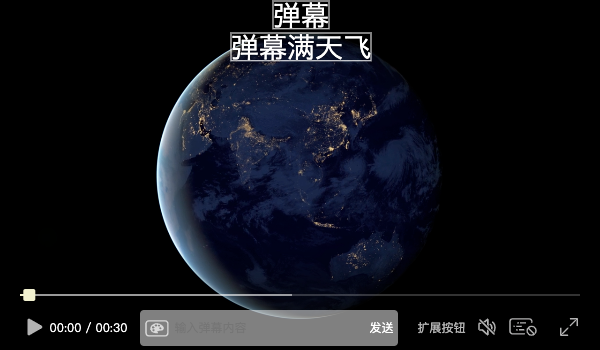
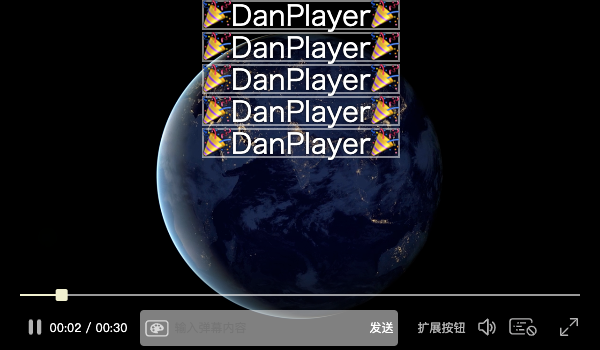
20190913

diff --git a/src/player/player.ts b/src/player/player.ts
@@ -102,7 +102,7 @@ interface PlayerOptions {
   iconSrc: string
 
   // 扩展按钮
-  extraButtons: Element[]
+  extraButtons: { [name: string]: () => void }
 
   // 弹幕层的配置
   danmaku: DanmakuLayerOptions
@@ -114,6 +114,8 @@ interface PlayerOptions {
   unique: boolean
 
   color: string
+
+  beforeSendDanmaku?: (danmaku: Danmaku) => Promise<boolean>
 }
 
 export interface PlayerPublicOptions {
@@ -143,7 +145,7 @@ export interface PlayerPublicOptions {
   iconSrc: string
 
   // 扩展按钮
-  extraButtons: Element[]
+  extraButtons: { [name: string]: () => void }
 
   // 弹幕层的配置
   danmaku: Partial<DanmakuLayerOptions>
@@ -155,6 +157,8 @@ export interface PlayerPublicOptions {
   unique: boolean
 
   color: string
+
+  beforeSendDanmaku?: (danmaku: Danmaku) => Promise<boolean>
 }
 
 enum VideoType {
@@ -171,14 +175,18 @@ function MakeDefaultOptions ({
   width = 600,
   height = 350,
   uiFadeOutDelay = 3000,
-  extraButtons = [],
+  extraButtons = {},
   src = '',
   iconSrc = icon,
   danmakuForm = true,
   fullScreen = true,
+  beforeSendDanmaku = undefined,
   danmaku = {},
   unique = false
 }: Partial<PlayerOptions> | Partial<PlayerPublicOptions>): PlayerOptions {
+  if (volume < 0 || volume > 1) {
+    volume = 0.7
+  }
   return {
     autoplay,
     color,
@@ -193,6 +201,7 @@ function MakeDefaultOptions ({
     extraButtons,
     unique,
     volume,
+    beforeSendDanmaku,
     width
   }
 }
@@ -484,6 +493,10 @@ export class Player extends EventEmitter {
     this.ui.danmakuLayer.send(danmaku)
   }
 
+  clearDanmaku () {
+    this.ui.danmakuLayer.clear()
+  }
+
   get paused () {
     return this._paused
   }
@@ -548,7 +561,7 @@ export class Player extends EventEmitter {
           throw Error('播放MPD视频资源前加载dash.js的代码')
         }
         this.dash = dashjs.MediaPlayer().create()
-        this.dash.initialize(this.$video, src, false)
+        this.dash.initialize(this.$video, src, !this.$video.paused)
         const setting = this.dash.getSettings()
         setting.streaming.abr.limitBitrateByPortal = true
         this.dash.updateSettings(setting)

diff --git a/src/App.vue b/src/App.vue
@@ -120,11 +120,20 @@ import { LimitType } from './player/danmaku/danmakuLayer'
         <!--    事件香港    -->
         <el-tab-pane label="事件相关" name="player_event">
           <p>DanPlayer暴露了video元素(player.$video)，所以涉及到原生的视频事件需求，大家可以继续绑定到player.$video<br>例如：播放进度、音量的变化。</p>
+          <p>由于"弹幕发送前"事件较为特殊，因此设置在player的参数里，请看代码：</p>
+          <pre>
+async function beforeSendDanmaku(danmaku){
+  return true 通知player可以将这次发送的弹幕显示到屏幕上
+  return false 通知player不要将这次发送的弹幕显示到屏幕上
+}
+new danmaku.Player({beforeSendDanmaku})
+player.set({beforeSendDanmaku})
+          </pre>
           <p>DanPlayer支持的事件：
           <ul>
+            <li>使用player.on('事件名称',player=>void)绑定事件</li>
             <li>optionChanged：当player的options即设置改变时触发，传入当前的player实例。</li>
             <li>toggleFullscreen：当player切换全屏状态时触发，并传入当前的player实例<br>可以使用player.isFullScreen查询是否处于全屏状态。</li>
-            <li>postDanmaku：当观众在控制栏的发弹幕区域点击【发送】按钮后触发，并传入当前的player实例和Danmaku类的实例对象。</li>
           </ul>
           </p>
         </el-tab-pane>
@@ -265,10 +274,7 @@ export default class App extends Vue {
         })
         console.log('player 配置', player.options)
         // 扩展按钮
-        const btn1 = document.createElement('div') as HTMLElement
-        btn1.innerText = '扩展按钮'
-        btn1.onclick = () => { alert('扩展按钮') }
-        player.set({ extraButtons: [btn1] })
+        player.set({ extraButtons: { '扩展按钮': () => alert('扩展按钮') } })
         this.settings.flowDuration = player.options.danmaku.flowDuration
         this.settings.fadeoutDuration = player.options.danmaku.fadeoutDuration
         this.settings.alpha = player.options.danmaku.alpha

diff --git a/src/player/danmaku/danmakuForm.ts b/src/player/danmaku/danmakuForm.ts
@@ -20,7 +20,7 @@ export class DanmakuForm {
     this.$btn.addEventListener('click', () => this.send())
     this.$input.addEventListener('keypress', (e: KeyboardEvent) => {
       // console.log('弹幕表单 keypress', e.key)
-      if (e.key === 'Enter' && this.ui.isShow && this.$input.value) {
+      if (e.key === 'Enter' && this.ui.isShow) {
         this.send()
       }
     })
@@ -42,11 +42,22 @@ export class DanmakuForm {
     this.$input.addEventListener('blur', () => { this.ui.isMouseInUI = false })
   }
 
-  send () {
+  async send () {
+    const text = this.$input.value.trim()
+    if (!text) return
     const options = this.styleLayer.getStyle()
     options.currentTime = this.ui.player.currentTime
-    this.ui.danmakuLayer.send(new Danmaku(this.$input.value, options))
+
+    const danmaku = new Danmaku(text, options)
+    if (this.ui.player.options.beforeSendDanmaku) {
+      const success = await this.ui.player.options.beforeSendDanmaku(danmaku)
+      if (!success) {
+        return
+      }
+    }
+    this.ui.danmakuLayer.send(danmaku)
     this.$input.value = ''
+    this.$input.blur()
     this.ui.player.$root.focus()
   }
 

diff --git a/src/player/danmaku/danmakuLayer.ts b/src/player/danmaku/danmakuLayer.ts
@@ -177,9 +177,14 @@ export class DanmakuLayer {
     this.canvas.clear()
     this.canvas.clearCache()
     this.topAndBottomDisables.push(...this.topEnables)
+    this.topAndBottomDisables.push(...this.bottomEnables)
     this.topEnables.length = 0
+    this.bottomEnables.length = 0
     this.flowDisables.push(...this.flowEnables)
     this.flowEnables.length = 0
+    for (let key in this.flowLines) this.flowLines[key] = null
+    for (let key in this.topLines) this.topLines[key] = null
+    for (let key in this.bottomLines) this.bottomLines[key] = null
   }
 
   resize () {
@@ -452,8 +457,6 @@ export class DanmakuLayer {
 
       if (this.isShow) {
         this.canvas.renderAll()
-      } else {
-        this.canvas.clear()
       }
     }
     this.frameTime = (Date.now() - this.lastFrame) / 1000

diff --git a/src/player/ui.ts b/src/player/ui.ts
@@ -124,12 +124,14 @@ export class Ui {
   insertExtraButtons () {
     this.clearExtraButtons()
     if (this.player.options.extraButtons) {
-      this.player.options.extraButtons.forEach($btn => {
+      for (let name in this.player.options.extraButtons) {
+        const $btn = document.createElement('div') as HTMLElement
+        $btn.innerText = name
+        $btn.addEventListener('click', this.player.options.extraButtons[name])
         $btn.classList.add('button')
-        $btn.classList.remove('intern-button')
-      })
-      this.$controllerButtonsRightLayout.prepend(...this.player.options.extraButtons)
-      this.extraButtons.push(...this.player.options.extraButtons)
+        this.$controllerButtonsRightLayout.prepend($btn)
+        this.extraButtons.push($btn)
+      }
     }
   }
 

diff --git a/README.md b/README.md
@@ -26,6 +26,10 @@
     - 流动式弹幕的移动速度(从右到左移动的弹幕)
     - 固定式弹幕的隐藏时间(固定在视频顶部和底部的弹幕)
     - 设置弹幕显示的区域，效果接近B站的相关设置(完善中)
+    - 控制栏的发弹幕的[发送]按钮，点击后会触发player设置参数的beforeSendDanmaku**异步函数**
+        * 函数逻辑可以是提交弹幕内容到服务器
+        * 返回true，会渲染这次发送的弹幕到屏幕
+        * 返回false，则不渲染这次发送的弹幕到屏幕
 - 支持的视频格式：
     - 优先检测浏览器能否原生支持播放，例如mp4视频文件，mp3音频文件
     - 当浏览器不支持HLS视频(例如Chromium系列)，则使用[hls.js](https://github.com/video-dev/hls.js)
